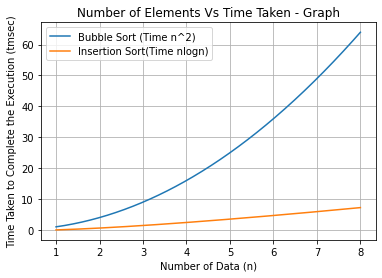
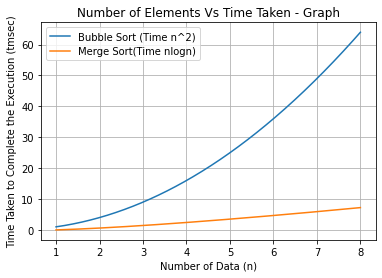
m
m

Changed region(s): [[0.2016, 0.1439, 0.5759, 0.2302], [0.5183, 0.0863, 0.5471, 0.1151]]

diff --git a/README.md b/README.md
@@ -100,7 +100,7 @@ Y_merge = X_Y_merge(X_)
 
 # Plotting the Graph
 plt.plot(X_, Y_bubble,label="Bubble Sort (Time n^2)")
-plt.plot(X_, Y_merge,label="Insertion Sort(Time nlogn)")
+plt.plot(X_, Y_merge,label="Merge Sort (Time nlogn)")
 plt.grid()
 plt.title("Number of Elements Vs Time Taken - Graph")
 plt.xlabel("Number of Data (n)")
